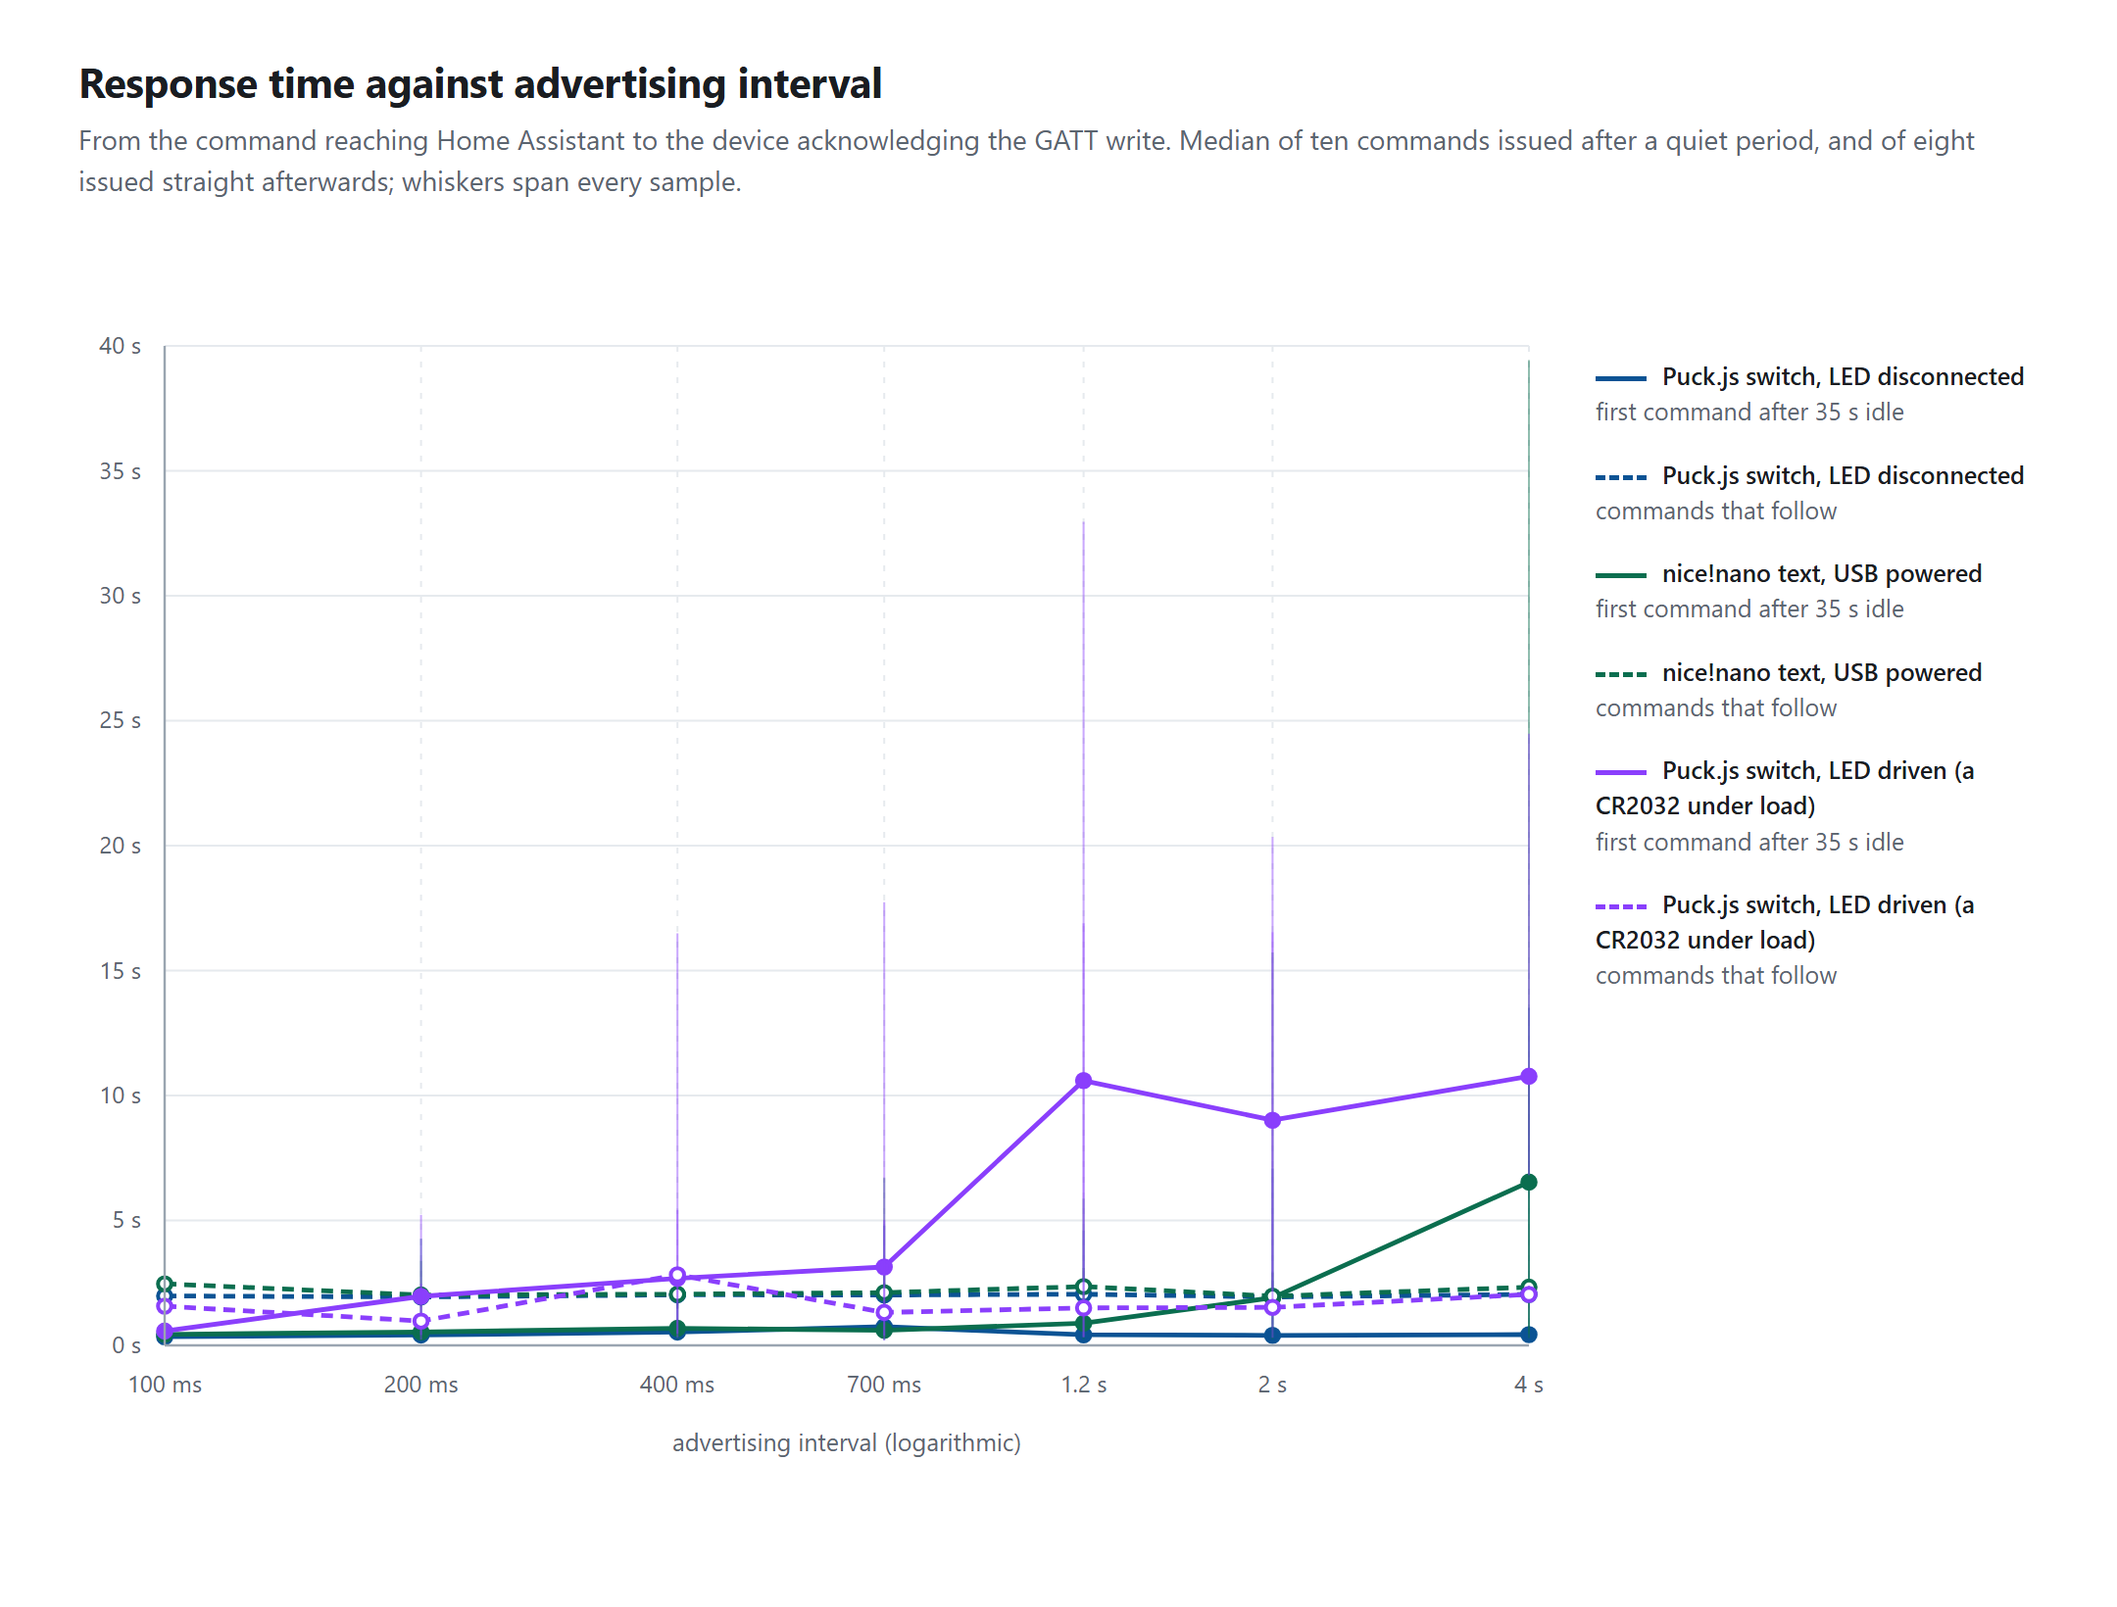
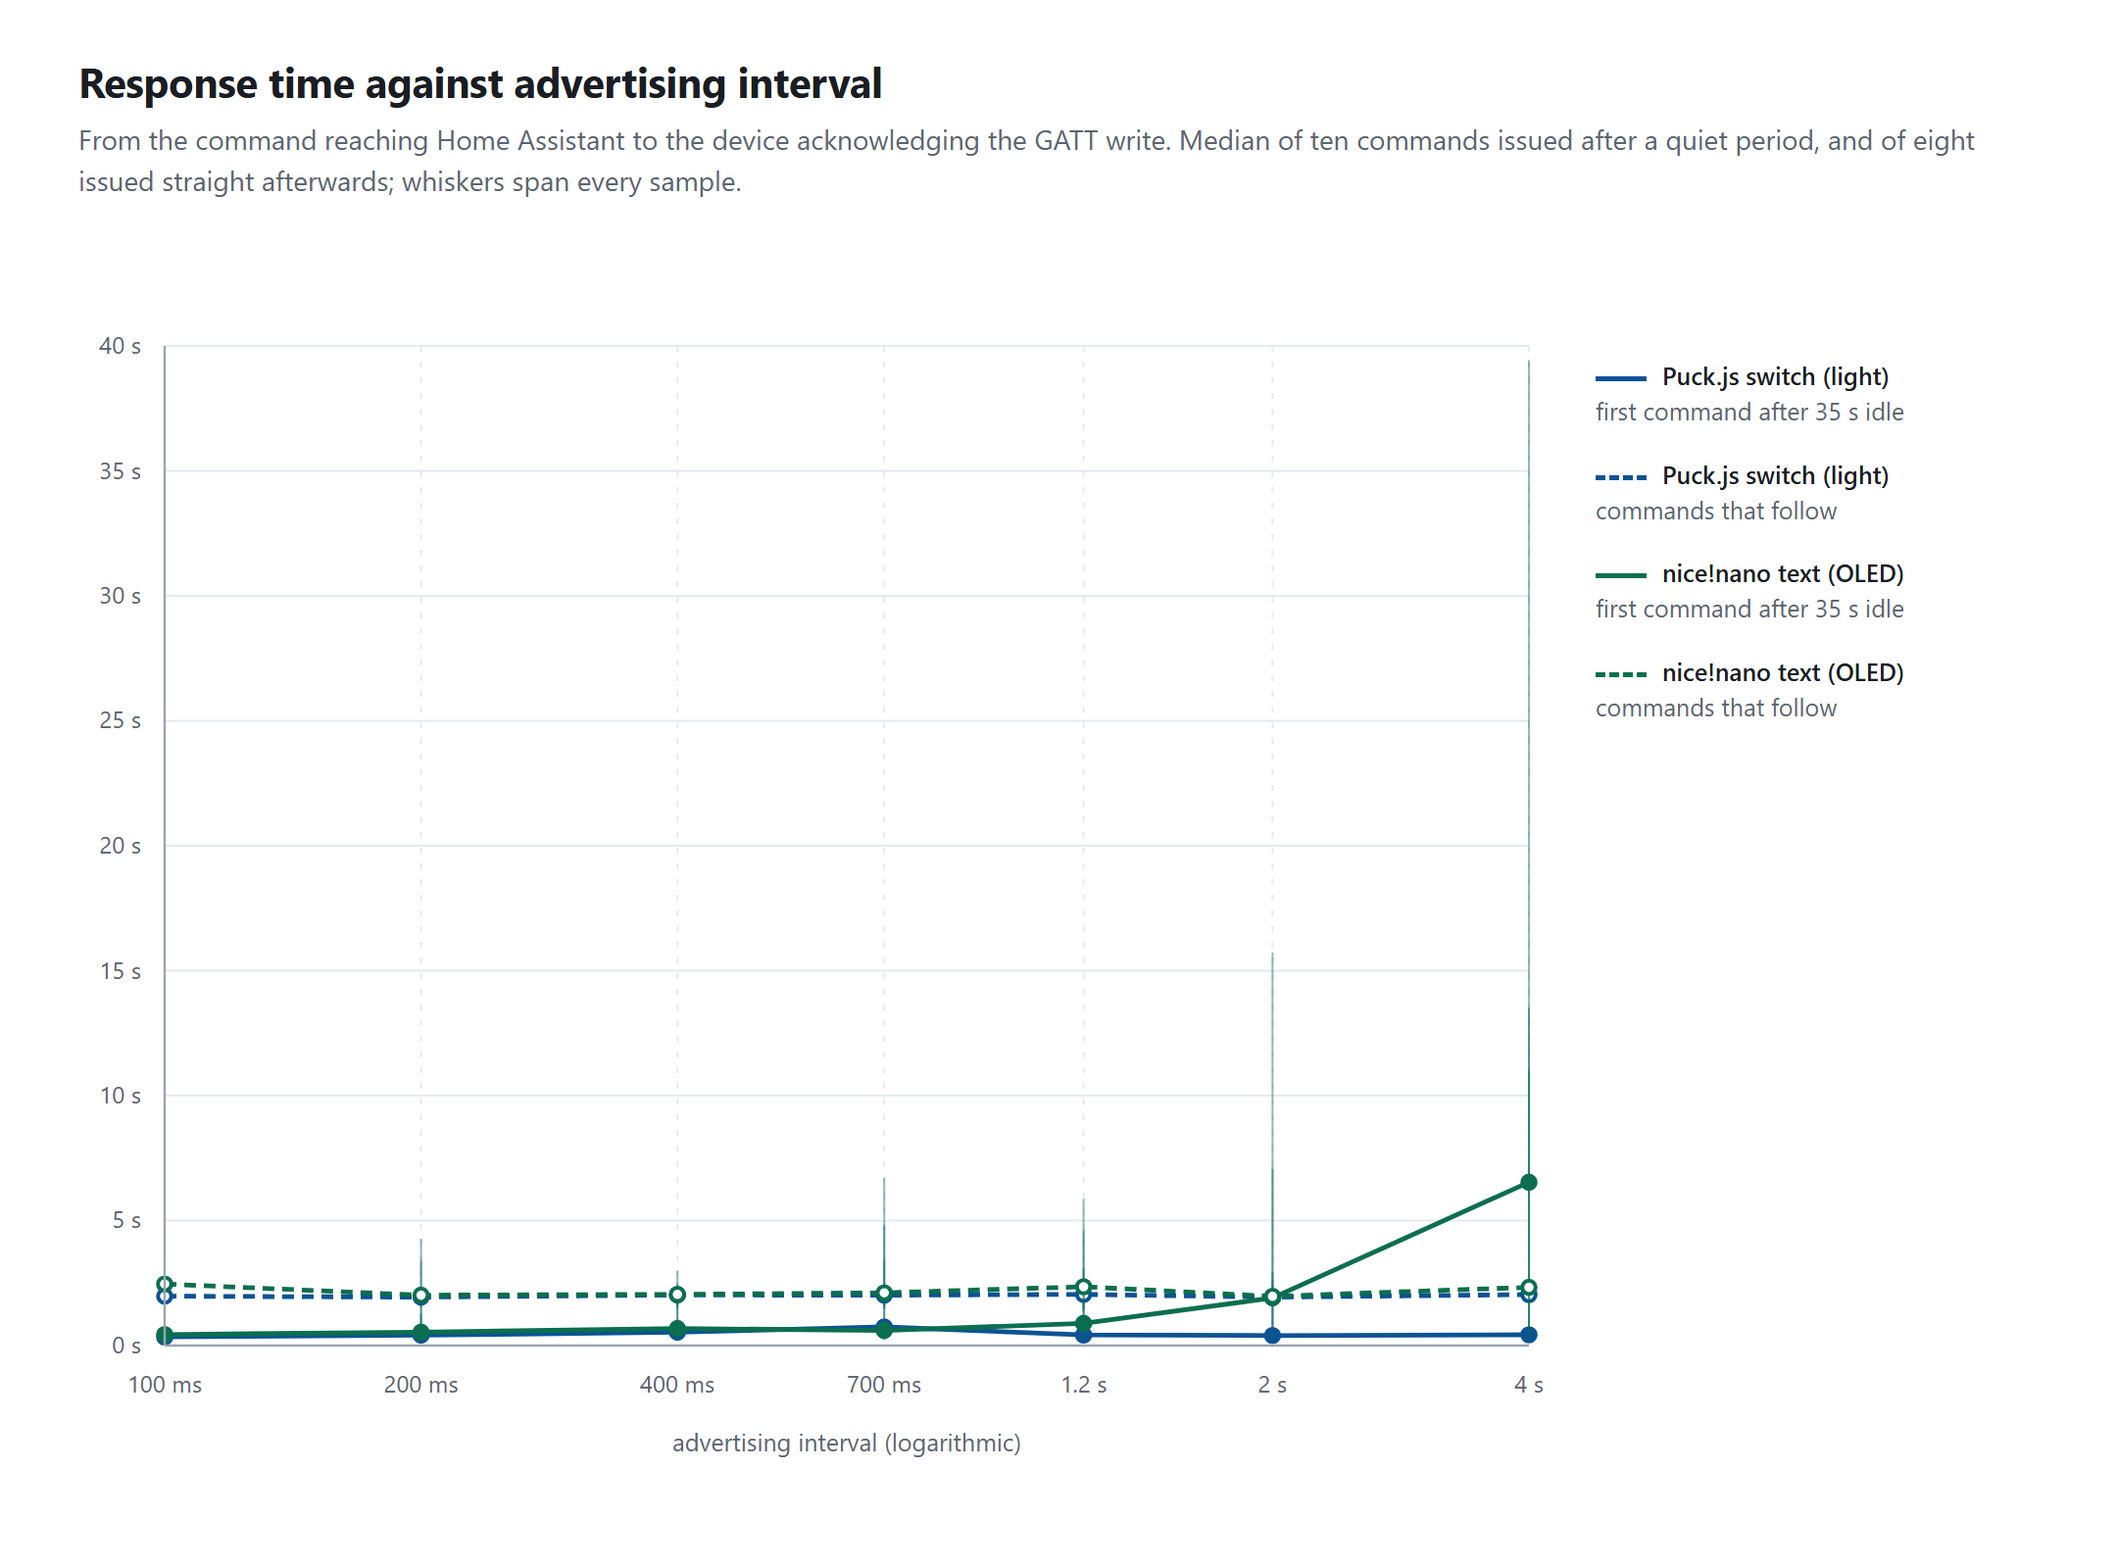
Keep the sweep to two devices and to timings
The Puck's LED-driven run measured a power supply rather than a link, so it
leaves the tables: docs/data/archive/ keeps it, D-053 keeps the reasoning. What
remains is the Puck and the nice!nano under the same conditions, with the write
phase now shown beside the connect phase.

Claude-Session: https://claude.ai/code/session_01Q9J3W2hNkNZMMduBZZmfHi

diff --git a/docs/figures/latency-vs-interval.html b/docs/figures/latency-vs-interval.html
@@ -125,46 +125,14 @@ straight afterwards; whiskers span every sample.</p>
 <circle cx="649.2" cy="558.9" r="3.4" fill="#fff" stroke="#0b6e4f" stroke-width="2"/>
 <line x1="780.0" y1="580.2" x2="780.0" y2="81.3" stroke="#0b6e4f" stroke-width="1" opacity="0.45"/>
 <circle cx="780.0" cy="554.3" r="3.4" fill="#fff" stroke="#0b6e4f" stroke-width="2"/>
-<path d="M84.0 576.7 L214.8 559.0 L345.6 549.8 L451.1 544.0 L552.8 448.9 L649.2 469.1 L780.0 446.7" fill="none" stroke="#8a3ffc" stroke-width="2.4" stroke-dasharray="" stroke-linejoin="round"/>
-<line x1="84.0" y1="580.3" x2="84.0" y2="551.4" stroke="#8a3ffc" stroke-width="1" opacity="0.45"/>
-<circle cx="84.0" cy="576.7" r="3.4" fill="#8a3ffc" stroke="#8a3ffc" stroke-width="2"/>
-<line x1="214.8" y1="578.7" x2="214.8" y2="517.4" stroke="#8a3ffc" stroke-width="1" opacity="0.45"/>
-<circle cx="214.8" cy="559.0" r="3.4" fill="#8a3ffc" stroke="#8a3ffc" stroke-width="2"/>
-<line x1="345.6" y1="580.1" x2="345.6" y2="514.9" stroke="#8a3ffc" stroke-width="1" opacity="0.45"/>
-<circle cx="345.6" cy="549.8" r="3.4" fill="#8a3ffc" stroke="#8a3ffc" stroke-width="2"/>
-<line x1="451.1" y1="579.0" x2="451.1" y2="357.9" stroke="#8a3ffc" stroke-width="1" opacity="0.45"/>
-<circle cx="451.1" cy="544.0" r="3.4" fill="#8a3ffc" stroke="#8a3ffc" stroke-width="2"/>
-<line x1="552.8" y1="579.8" x2="552.8" y2="163.7" stroke="#8a3ffc" stroke-width="1" opacity="0.45"/>
-<circle cx="552.8" cy="448.9" r="3.4" fill="#8a3ffc" stroke="#8a3ffc" stroke-width="2"/>
-<line x1="649.2" y1="556.4" x2="649.2" y2="324.6" stroke="#8a3ffc" stroke-width="1" opacity="0.45"/>
-<circle cx="649.2" cy="469.1" r="3.4" fill="#8a3ffc" stroke="#8a3ffc" stroke-width="2"/>
-<line x1="780.0" y1="497.1" x2="780.0" y2="271.9" stroke="#8a3ffc" stroke-width="1" opacity="0.45"/>
-<circle cx="780.0" cy="446.7" r="3.4" fill="#8a3ffc" stroke="#8a3ffc" stroke-width="2"/>
-<path d="M84.0 564.0 L214.8 571.6 L345.6 548.0 L451.1 567.2 L552.8 564.9 L649.2 564.6 L780.0 558.0" fill="none" stroke="#8a3ffc" stroke-width="2.4" stroke-dasharray="6 4" stroke-linejoin="round"/>
-<line x1="84.0" y1="580.2" x2="84.0" y2="373.9" stroke="#8a3ffc" stroke-width="1" opacity="0.45"/>
-<circle cx="84.0" cy="564.0" r="3.4" fill="#fff" stroke="#8a3ffc" stroke-width="2"/>
-<line x1="214.8" y1="581.1" x2="214.8" y2="552.5" stroke="#8a3ffc" stroke-width="1" opacity="0.45"/>
-<circle cx="214.8" cy="571.6" r="3.4" fill="#fff" stroke="#8a3ffc" stroke-width="2"/>
-<line x1="345.6" y1="578.0" x2="345.6" y2="373.7" stroke="#8a3ffc" stroke-width="1" opacity="0.45"/>
-<circle cx="345.6" cy="548.0" r="3.4" fill="#fff" stroke="#8a3ffc" stroke-width="2"/>
-<line x1="451.1" y1="581.5" x2="451.1" y2="520.1" stroke="#8a3ffc" stroke-width="1" opacity="0.45"/>
-<circle cx="451.1" cy="567.2" r="3.4" fill="#fff" stroke="#8a3ffc" stroke-width="2"/>
-<line x1="552.8" y1="579.9" x2="552.8" y2="368.6" stroke="#8a3ffc" stroke-width="1" opacity="0.45"/>
-<circle cx="552.8" cy="564.9" r="3.4" fill="#fff" stroke="#8a3ffc" stroke-width="2"/>
-<line x1="649.2" y1="580.1" x2="649.2" y2="373.1" stroke="#8a3ffc" stroke-width="1" opacity="0.45"/>
-<circle cx="649.2" cy="564.6" r="3.4" fill="#fff" stroke="#8a3ffc" stroke-width="2"/>
-<line x1="780.0" y1="561.9" x2="780.0" y2="553.5" stroke="#8a3ffc" stroke-width="1" opacity="0.45"/>
-<circle cx="780.0" cy="558.0" r="3.4" fill="#fff" stroke="#8a3ffc" stroke-width="2"/>
 <line class="axis" x1="84" y1="584" x2="780" y2="584"/>
 <line class="axis" x1="84" y1="74" x2="84" y2="584"/>
 <text class="axis-label" x="432" y="638">advertising interval (logarithmic)</text>
 </svg>
 <div class="legend">
-<div class="key"><span class="swatch" style="--c:#0b5394;--d:solid"></span><b>Puck.js switch, LED disconnected</b><br><span class="muted">first command after 35 s idle</span></div>
-<div class="key"><span class="swatch" style="--c:#0b5394;--d:dashed"></span><b>Puck.js switch, LED disconnected</b><br><span class="muted">commands that follow</span></div>
-<div class="key"><span class="swatch" style="--c:#0b6e4f;--d:solid"></span><b>nice!nano text, USB powered</b><br><span class="muted">first command after 35 s idle</span></div>
-<div class="key"><span class="swatch" style="--c:#0b6e4f;--d:dashed"></span><b>nice!nano text, USB powered</b><br><span class="muted">commands that follow</span></div>
-<div class="key"><span class="swatch" style="--c:#8a3ffc;--d:solid"></span><b>Puck.js switch, LED driven (a CR2032 under load)</b><br><span class="muted">first command after 35 s idle</span></div>
-<div class="key"><span class="swatch" style="--c:#8a3ffc;--d:dashed"></span><b>Puck.js switch, LED driven (a CR2032 under load)</b><br><span class="muted">commands that follow</span></div>
+<div class="key"><span class="swatch" style="--c:#0b5394;--d:solid"></span><b>Puck.js switch (light)</b><br><span class="muted">first command after 35 s idle</span></div>
+<div class="key"><span class="swatch" style="--c:#0b5394;--d:dashed"></span><b>Puck.js switch (light)</b><br><span class="muted">commands that follow</span></div>
+<div class="key"><span class="swatch" style="--c:#0b6e4f;--d:solid"></span><b>nice!nano text (OLED)</b><br><span class="muted">first command after 35 s idle</span></div>
+<div class="key"><span class="swatch" style="--c:#0b6e4f;--d:dashed"></span><b>nice!nano text (OLED)</b><br><span class="muted">commands that follow</span></div>
 </div>
 </div>

diff --git a/docs/measurements.md b/docs/measurements.md
@@ -58,98 +58,61 @@ that window out, and the module's 30 s default turns each interval into eight
 minutes of waiting. It does not touch what is measured — only how long it takes
 to get the device back to its idle interval.
 
-### Puck.js light switch — and what its LED was doing to it
+### Puck.js light switch
 
-The Puck ran `light-loop.js`, which switches an LED from a CR2032. Its figures
-here are a cautionary tale rather than a measurement of the protocol: see the
-comparison below before reading them.
-
-| Interval | First, median | mean | range | of which connecting | Following, median | Lost |
-|---|---|---|---|---|---|---|
-| 100 ms | 0.57 s | 1.10 s | 0.29 – 2.55 | 0.46 s (4.6×) | 1.56 s | — |
-| 200 ms | 1.96 s | 2.19 s | 0.41 – 5.22 | 1.81 s (9.0×) | 0.98 s | — |
-| 400 ms | 2.68 s | 2.69 s | 0.30 – 5.42 | 2.42 s (6.1×) | 2.82 s | — |
-| 700 ms | 3.14 s | 4.45 s | 0.39 – 17.74 | 2.49 s (3.6×) | 1.32 s | — |
-| 1.2 s | 10.60 s | 13.54 s | 0.33 – 32.96 | 5.46 s (4.5×) | 1.50 s | — |
-| 2 s | 9.01 s | 8.65 s | 2.16 – 20.35 | 3.55 s (1.8×) | 1.52 s | — |
-| 4 s | 10.77 s | 12.93 s | 6.81 – 24.48 | 9.93 s (2.5×) | 2.04 s | 1 |
-
-### Puck.js again, with the LED disconnected
-
-`light-loop-no-led.js` is identical in everything a receiver can see — same
-entries, same intervals, same writable light on 2FAA0001 — except that applying
-a write drives no pin. Same sweep, same receiver, immediately afterwards.
-
-| Interval | First, median | mean | range | of which connecting | Following, median | Lost |
-|---|---|---|---|---|---|---|
-| 100 ms | 0.34 s | 0.52 s | 0.21 – 2.03 | 0.32 s (3.2×) | 1.97 s | — |
-| 200 ms | 0.41 s | 0.54 s | 0.25 – 1.27 | 0.38 s (1.9×) | 1.94 s | — |
-| 400 ms | 0.53 s | 0.70 s | 0.29 – 1.79 | 0.50 s (1.3×) | 2.02 s | — |
-| 700 ms | 0.74 s | 1.28 s | 0.21 – 4.79 | 0.71 s (1.0×) | 2.02 s | — |
-| 1.2 s | 0.42 s | 1.60 s | 0.22 – 4.60 | 0.39 s (0.3×) | 2.05 s | — |
-| 2 s | 0.40 s | 1.78 s | 0.23 – 7.07 | 0.37 s (0.2×) | 1.94 s | — |
-| 4 s | 0.43 s | 2.53 s | 0.14 – 13.51 | 0.40 s (0.1×) | 2.04 s | — |
-
-| Same Puck, same sweep | LED driven | LED not driven |
-|---|---|---|
-| Write, median | 141 ms | **36 ms** |
-| Write, 90th percentile | 6636 ms | **37 ms** |
-| Write, worst | 16153 ms | 4061 ms |
-| Writes stalled past 5 s | 13 of 125 | **0 of 126** |
-| Connect, median | 2.56 s | **0.39 s** |
-| Never delivered | 1 | **0** |
-
-The 90th percentile is the one to read: with the LED, one write in ten took more
-than 6.6 s; without it, 37 ms. A coin cell has a high internal
-resistance, an LED draws a few milliamps, and the radio transmits from the same
-rail — the link drops while the rail sags, and the several stalls within
-milliseconds of 16.1 s are a supervision timeout and a retry (D-053).
-
-**So: a latency measured on a battery device that actuates something is measuring
-the battery.** Use a device that drives no load, or one on mains.
+| Interval | First, median | mean | range | of which connecting | Write itself | Following, median | Lost |
+|---|---|---|---|---|---|---|---|
+| 100 ms | 0.34 s | 0.52 s | 0.21 – 2.03 | 0.32 s (3.2×) | 36 ms | 1.97 s | — |
+| 200 ms | 0.41 s | 0.54 s | 0.25 – 1.27 | 0.38 s (1.9×) | 36 ms | 1.94 s | — |
+| 400 ms | 0.53 s | 0.70 s | 0.29 – 1.79 | 0.50 s (1.3×) | 36 ms | 2.02 s | — |
+| 700 ms | 0.74 s | 1.28 s | 0.21 – 4.79 | 0.71 s (1.0×) | 36 ms | 2.02 s | — |
+| 1.2 s | 0.42 s | 1.60 s | 0.22 – 4.60 | 0.39 s (0.3×) | 36 ms | 2.05 s | — |
+| 2 s | 0.40 s | 1.78 s | 0.23 – 7.07 | 0.37 s (0.2×) | 36 ms | 1.94 s | — |
+| 4 s | 0.43 s | 2.53 s | 0.14 – 13.51 | 0.40 s (0.1×) | 36 ms | 2.04 s | — |
 
 ### nice!nano OLED text
 
-| Interval | First, median | mean | range | of which connecting | Following, median | Lost |
-|---|---|---|---|---|---|---|
-| 100 ms | 0.44 s | 0.60 s | 0.29 – 1.29 | 0.31 s (3.1×) | 2.46 s | — |
-| 200 ms | 0.54 s | 0.68 s | 0.24 – 2.20 | 0.40 s (2.0×) | 2.01 s | — |
-| 400 ms | 0.68 s | 1.03 s | 0.24 – 2.19 | 0.46 s (1.1×) | 2.05 s | — |
-| 700 ms | 0.60 s | 1.39 s | 0.28 – 6.69 | 0.56 s (0.8×) | 2.11 s | — |
-| 1.2 s | 0.89 s | 1.74 s | 0.24 – 5.87 | 0.43 s (0.4×) | 2.35 s | — |
-| 2 s | 1.90 s | 4.30 s | 0.24 – 15.72 | 1.86 s (0.9×) | 1.97 s | — |
-| 4 s | 6.53 s | 5.27 s | 0.46 – 11.00 | 6.46 s (1.6×) | 2.33 s | 2 |
+| Interval | First, median | mean | range | of which connecting | Write itself | Following, median | Lost |
+|---|---|---|---|---|---|---|---|
+| 100 ms | 0.44 s | 0.60 s | 0.29 – 1.29 | 0.31 s (3.1×) | 44 ms | 2.46 s | — |
+| 200 ms | 0.54 s | 0.68 s | 0.24 – 2.20 | 0.40 s (2.0×) | 43 ms | 2.01 s | — |
+| 400 ms | 0.68 s | 1.03 s | 0.24 – 2.19 | 0.46 s (1.1×) | 43 ms | 2.05 s | — |
+| 700 ms | 0.60 s | 1.39 s | 0.28 – 6.69 | 0.56 s (0.8×) | 43 ms | 2.11 s | — |
+| 1.2 s | 0.89 s | 1.74 s | 0.24 – 5.87 | 0.43 s (0.4×) | 44 ms | 2.35 s | — |
+| 2 s | 1.90 s | 4.30 s | 0.24 – 15.72 | 1.86 s (0.9×) | 43 ms | 1.97 s | — |
+| 4 s | 6.53 s | 5.27 s | 0.46 – 11.00 | 6.46 s (1.6×) | 100 ms | 2.33 s | 2 |
 
 ### What the numbers say
 
 **The median is the number to read.** These distributions are not symmetric: a
 connection attempt that misses its advertising window waits out another
-interval, so each interval has a few samples far above the rest. On the
-nice!nano at 2 s, the median first command is 1.90 s and the mean 4.30 s; the
-gap is the shape of the distribution, not noise to be averaged away.
+interval, so each interval carries a few samples far above the rest. Where the
+mean sits well above the median — 2.53 s against 0.43 s on the Puck at 4 s — the
+gap is that tail, not noise to average away.
 
-**Opening the link costs a fixed cost plus about half an interval.** Read in
-seconds rather than in intervals, the nice!nano's median connect time runs
-0.31, 0.40, 0.46, 0.56, 0.43, 1.86 and 6.46 s across the ladder. There is a
-floor of roughly 0.3 s that has nothing to do with advertising, and above about
-1 s of interval the wait for an advertising event takes over. Expressed as a
-multiple of the interval — the natural way to ask the question — that same
-series reads 3.1×, 2.0×, 1.15×, 0.80×, 0.35×, 0.93×, 1.61×: a small multiple,
-but not a constant one, because the two terms trade places.
+**Opening the link costs a floor plus part of an interval.** In seconds, the
+Puck's median connect time runs 0.32, 0.38, 0.50, 0.71, 0.39, 0.37, 0.40 across
+the ladder, and the nice!nano's 0.31, 0.40, 0.46, 0.56, 0.43, 1.86, 6.46. There
+is a floor of roughly 0.3–0.4 s that owes nothing to advertising. Below about a
+second of interval the floor dominates, which is why the same figure reads as a
+large multiple of a small interval (3.2× of 100 ms is 0.32 s).
 
-**Following commands are flat.** Around 2 s on the nice!nano and 1–3 s on the
-Puck at every interval, because `fastTimeout` keeps the device advertising at
-100 ms once a receiver has been in touch.
+**The write itself is never the cost**: 36 ms on the Puck, 43 ms on the
+nice!nano, whether the object written is one byte or a whole string.
 
-**The two devices were not equivalent, and the reason was the power supply.**
-The Puck's stalls and its long connect times disappeared when the same sketch
-stopped driving its LED: 0 of 126 writes stalled against 13 of 125, and the
-median connect time fell from 2.56 s to 0.39 s. What looked like a device or a
-protocol problem was a CR2032 sagging under an LED and a transmitting radio
-(D-053).
+**Following commands are flat** at about 2 s on both devices, at every interval,
+because `fastTimeout` keeps a device advertising at 100 ms for 30 s once a
+receiver has been in touch. This is the result that matters for a user
+interacting with a device: the interval is a cold-start dial, not a latency
+dial.
 
-**Failures.** Three commands of 249 were never delivered, all at 4 s. Each was
-logged on its entity as *the command did not reach the device*.
+**Failures.** Two commands of 250 were never delivered, both on the nice!nano at
+4 s. Each was logged on its entity as *the command did not reach the device*.
+
+**A caution about the long intervals.** At 1.2 s and above the Puck connects in
+less than half an interval — faster than a fresh connection should average. The
+proxy is probably reusing a recent link. Those rows therefore say less about the
+cost of catching an advertisement than the short ones do.
 
 ---
 
